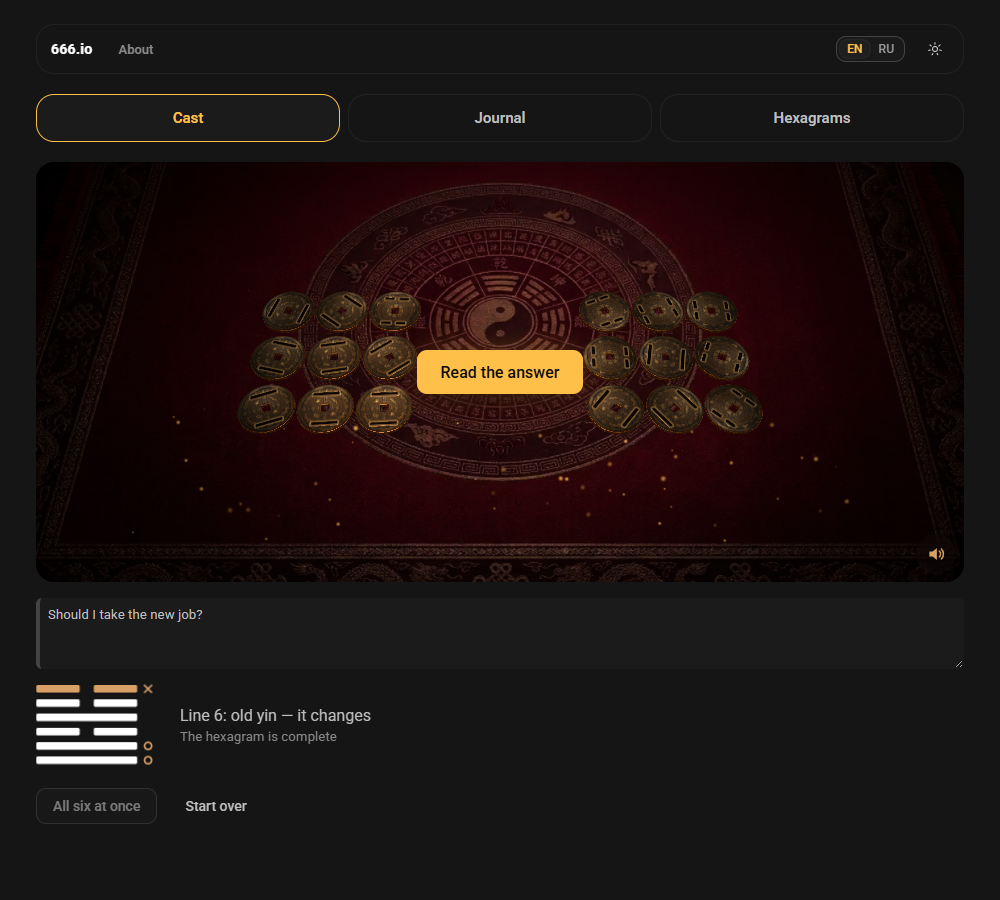
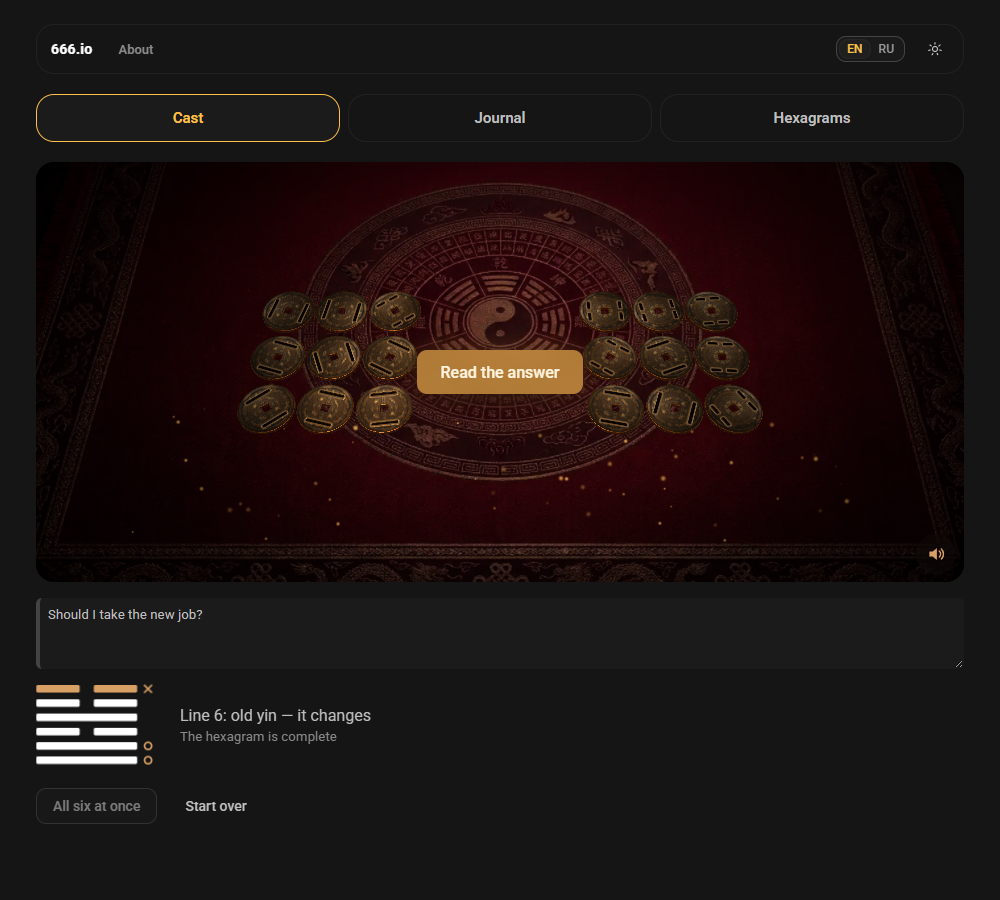
The table button: translucent gold, the blur is switched on after it has faded in

Changed region(s): [[0.248, 0.3111, 0.775, 0.4978]]

diff --git a/src/app/components/CoinTable.vue b/src/app/components/CoinTable.vue
@@ -20,6 +20,8 @@ const emit = defineEmits<{ activate: []; action: []; unavailable: [] }>();
 defineProps<{ hint?: string; action?: string }>();
 
 const host = ref<HTMLElement | null>(null);
+/** The button has appeared in full: now its blur may come. / Кнопка проявилась целиком: теперь можно включать блюр. */
+const settled = ref(false);
 let stage: TableStage | null = null;
 /**
  * Resolves with the stage when it stands, or with null when there will be none (no WebGL, or the component is gone). A press that comes while the
@@ -76,11 +78,12 @@ defineExpose({
                 <path v-else d="M16 9l5 6M21 9l-5 6" fill="none" stroke="currentColor" stroke-width="1.8" stroke-linecap="round" />
             </svg>
         </button>
-        <!-- When the cast is done the main action stands in the middle of the table, golden; the container lets presses through, the button takes its own.
-             It is not glass: a blur behind an element whose opacity changes does not hold until the fade is over, and the button would show it. -->
-        <Transition name="action">
+        <!-- When the cast is done the main action stands in the middle of the table: a translucent golden button. A blur behind an element whose opacity changes
+             does not hold until the fade is over, so while the button fades in it has no blur at all, and the glass is switched on (and itself fades in) when
+             the fade is over. The container lets presses through, the button takes its own. -->
+        <Transition name="action" @after-enter="settled = true" @before-leave="settled = false">
             <div v-if="action" class="coin-table__action">
-                <TaoButton class="coin-table__read" variant="primary" size="large" @click="emit('action')">{{ action }}</TaoButton>
+                <TaoButton class="coin-table__read" :class="{ 'coin-table__read--glass': settled }" variant="primary" size="large" @click="emit('action')">{{ action }}</TaoButton>
             </div>
         </Transition>
         <!-- The hint lets every press through (pointer-events: none): the press lands on the table itself and throws the coins. -->
@@ -148,12 +151,27 @@ defineExpose({
     place-items: center;
     pointer-events: none;
 }
-.coin-table__read {
+.coin-table .coin-table__read {
     pointer-events: auto;
     border: 0;
+    background: rgba(255, 190, 80, 0.62);
+    color: #fff4de;
+    -webkit-backdrop-filter: blur(0);
+    backdrop-filter: blur(0);
+    transition:
+        backdrop-filter 0.7s ease,
+        -webkit-backdrop-filter 0.7s ease,
+        background-color 0.2s ease;
     box-shadow:
         0 6px 24px rgba(0, 0, 0, 0.5),
-        0 0 26px rgba(255, 183, 70, 0.28); /* a faint golden glow, like the coins */
+        0 0 26px rgba(255, 183, 70, 0.25); /* a faint golden glow, like the coins */
+}
+.coin-table .coin-table__read--glass {
+    -webkit-backdrop-filter: blur(14px);
+    backdrop-filter: blur(14px);
+}
+.coin-table .coin-table__read:hover {
+    background: rgba(255, 196, 96, 0.76);
 }
 .action-enter-active {
     transition:
